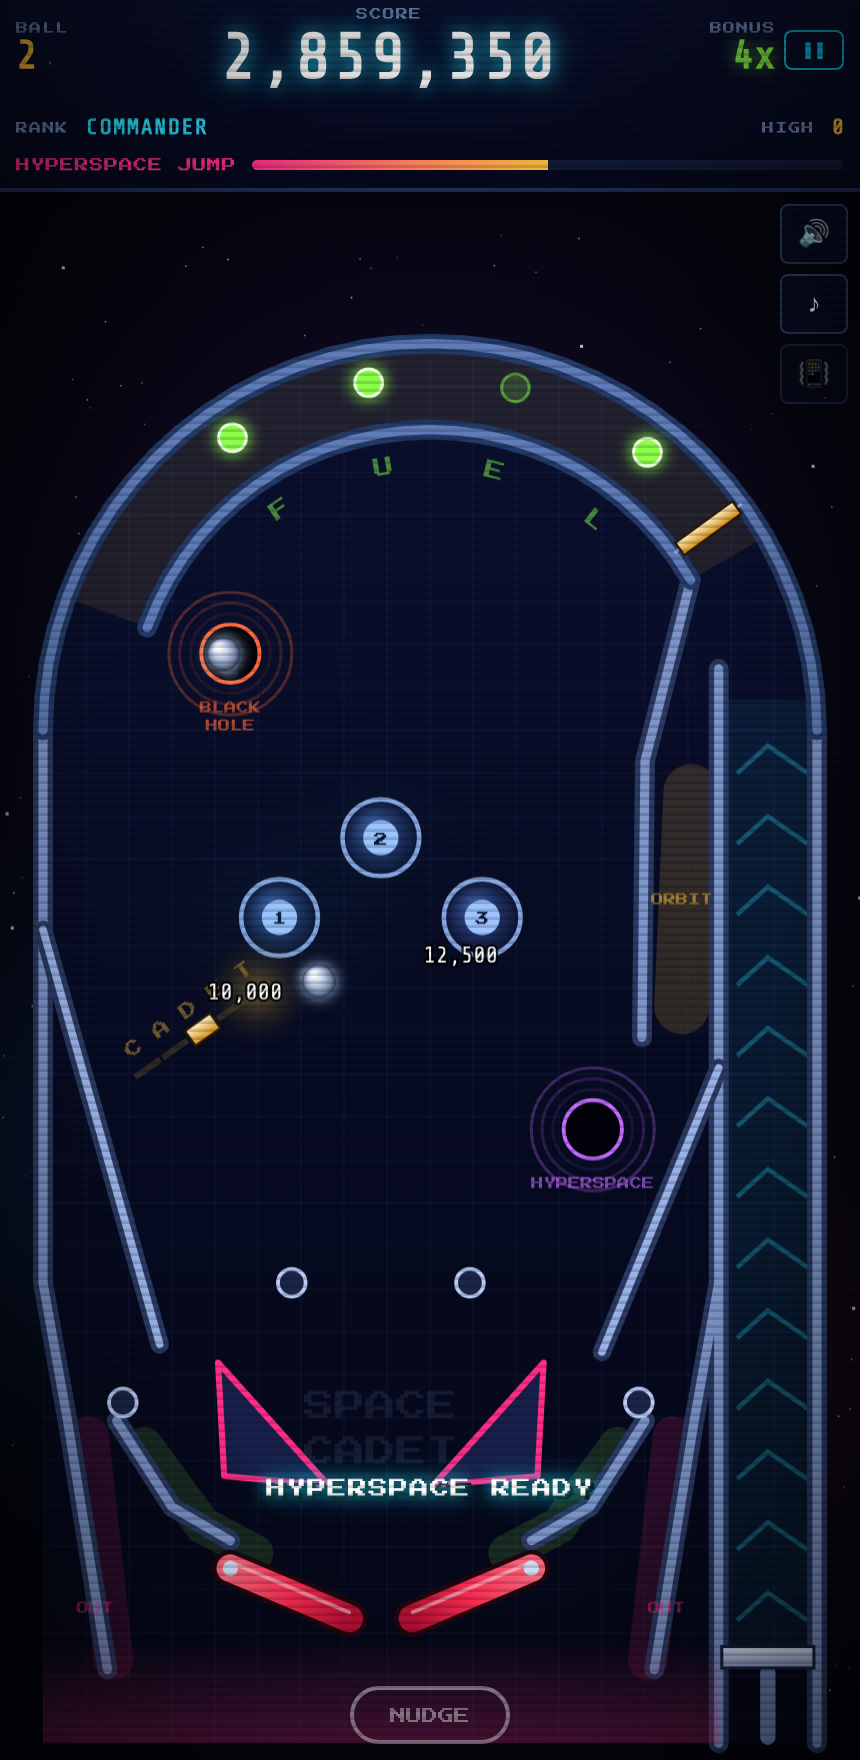
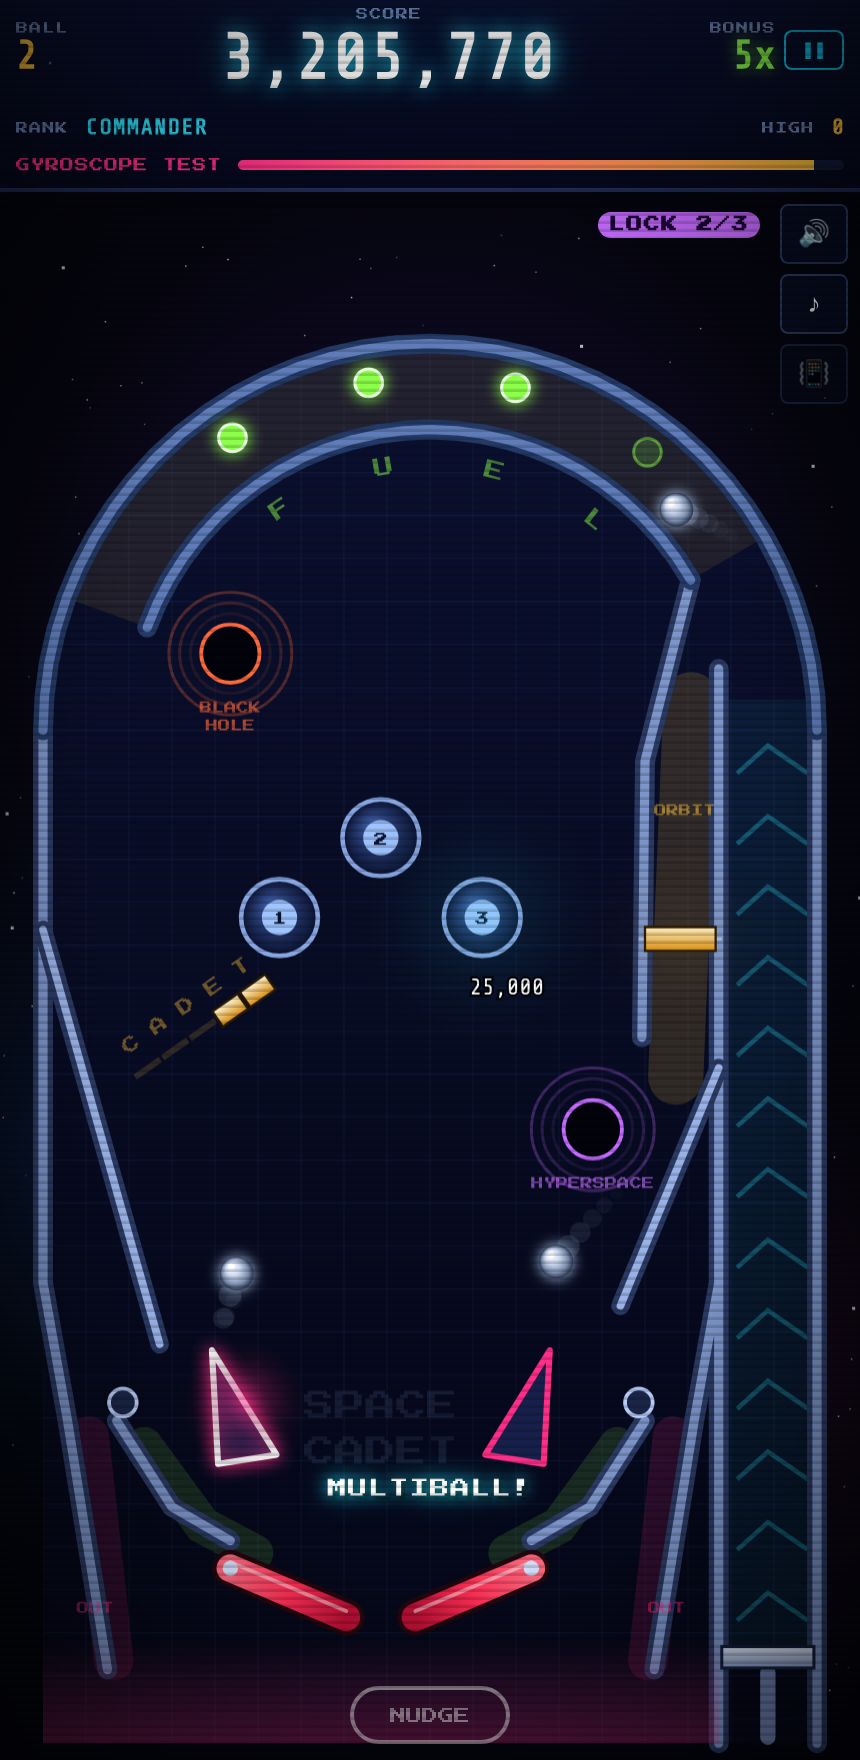
Fresh screenshot, and draw the spinner across its lane
The committed screenshot predated the slingshot, post and spinner changes.
Replaced with the current table, mid-multiball with the lock lamp lit.

The spinner's plate was still oriented for its old home in the dome
channel, so after moving it into the vertical orbit lane it drew as a thin
sliver along the lane instead of a plate across it. Also extended the lane
paint so it reads as a lane rather than a pill ending under the spinner.

Claude-Session: https://claude.ai/code/session_0152txKcvYHFwoUY8szmDJcs

diff --git a/js/table.js b/js/table.js
@@ -173,7 +173,9 @@ export function createTable() {
   // channel it only paid out if the ball completed the entire loop: two
   // thirds of successful orbit shots registered nothing at all, which made
   // a hard shot feel broken rather than hard.
-  const spinner = { x: 443, y: 476, r: 32, a: Math.PI / 2, angle: 0, spinVel: 0, cooldown: 0, spins: 0 };
+  // `a` orients the plate across the lane; the lane here is vertical, so the
+  // plate lies horizontal and the ball passes through it.
+  const spinner = { x: 443, y: 476, r: 32, a: 0, angle: 0, spinVel: 0, cooldown: 0, spins: 0 };
 
   // ---- Drop target bank: C-A-D-E-T ----------------------------------
   // One straight bank in the upper left, faces pointing down-right.

diff --git a/js/renderer.js b/js/renderer.js
@@ -187,8 +187,8 @@ export class Renderer {
     ctx.lineWidth = 36;
     ctx.lineCap = 'round';
     ctx.beginPath();
-    ctx.moveTo(444, 520);
-    ctx.lineTo(450, 380);
+    ctx.moveTo(440, 566);
+    ctx.lineTo(450, 320);
     ctx.stroke();
     ctx.restore();
 
